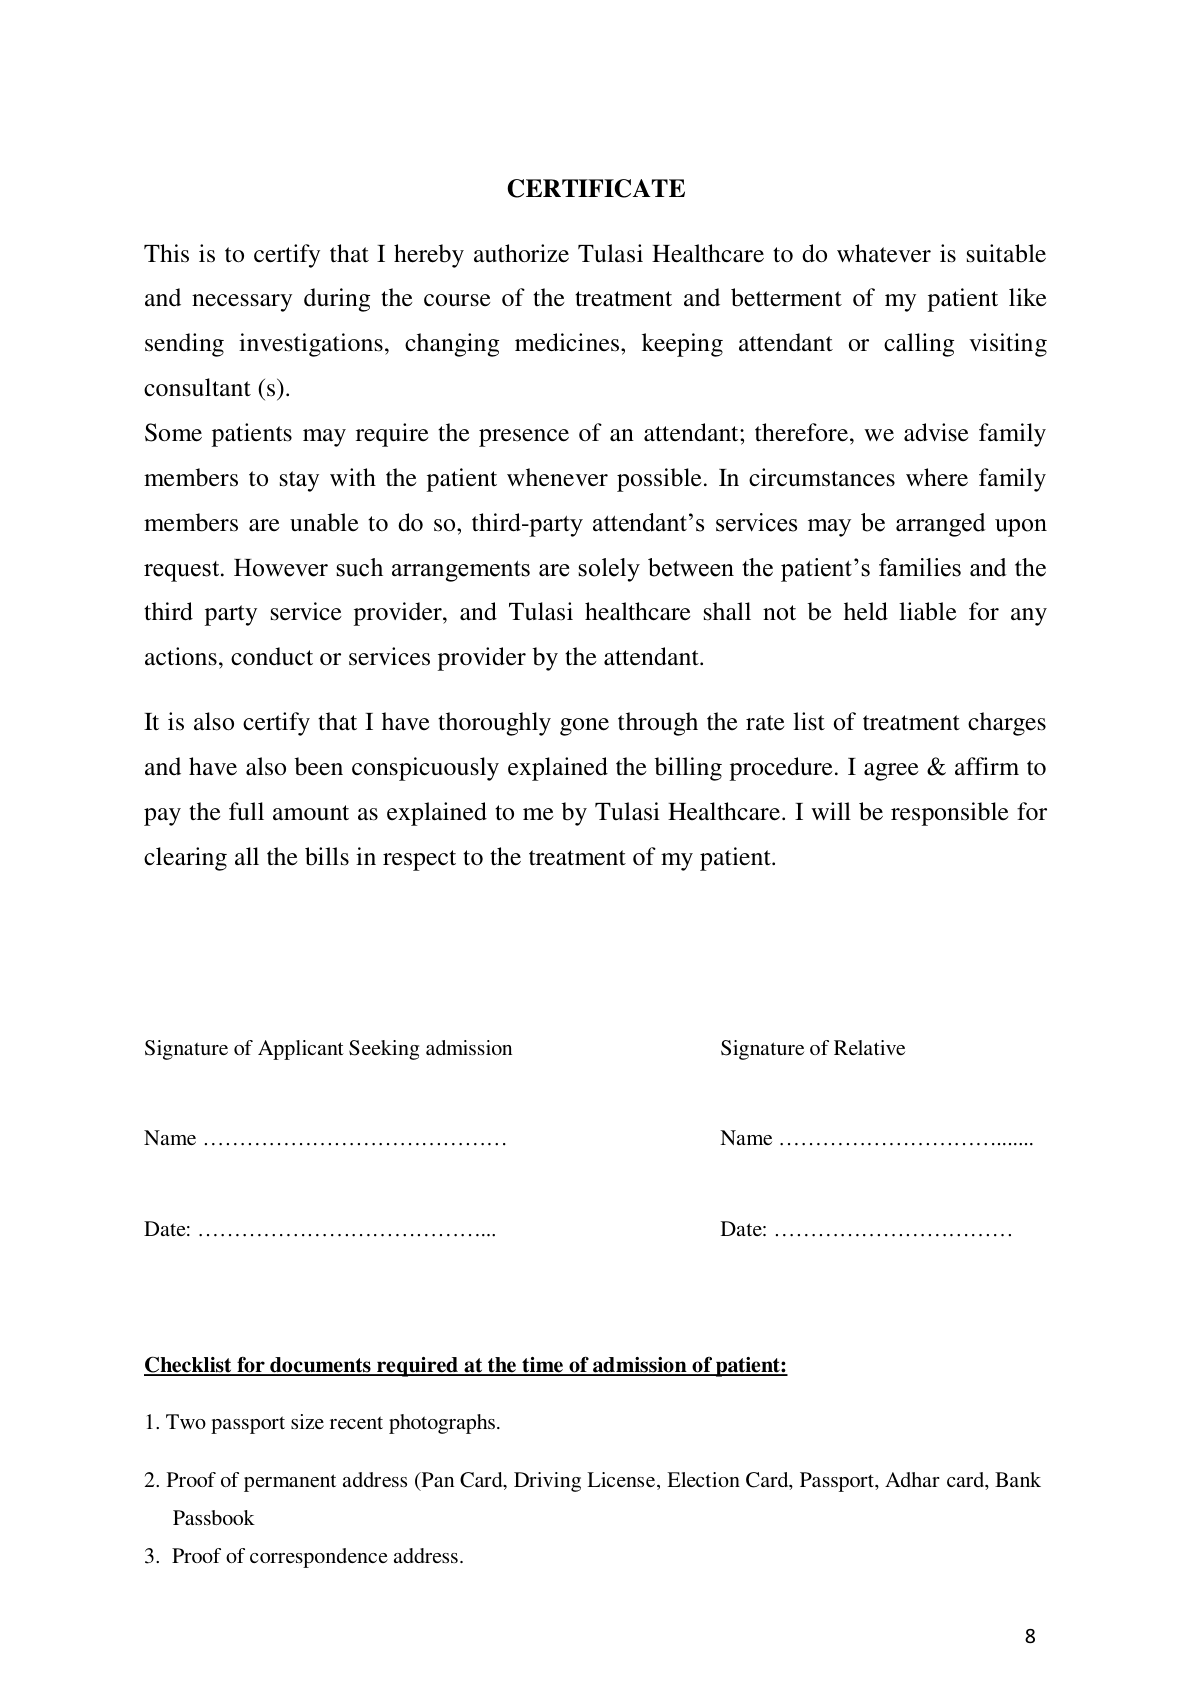
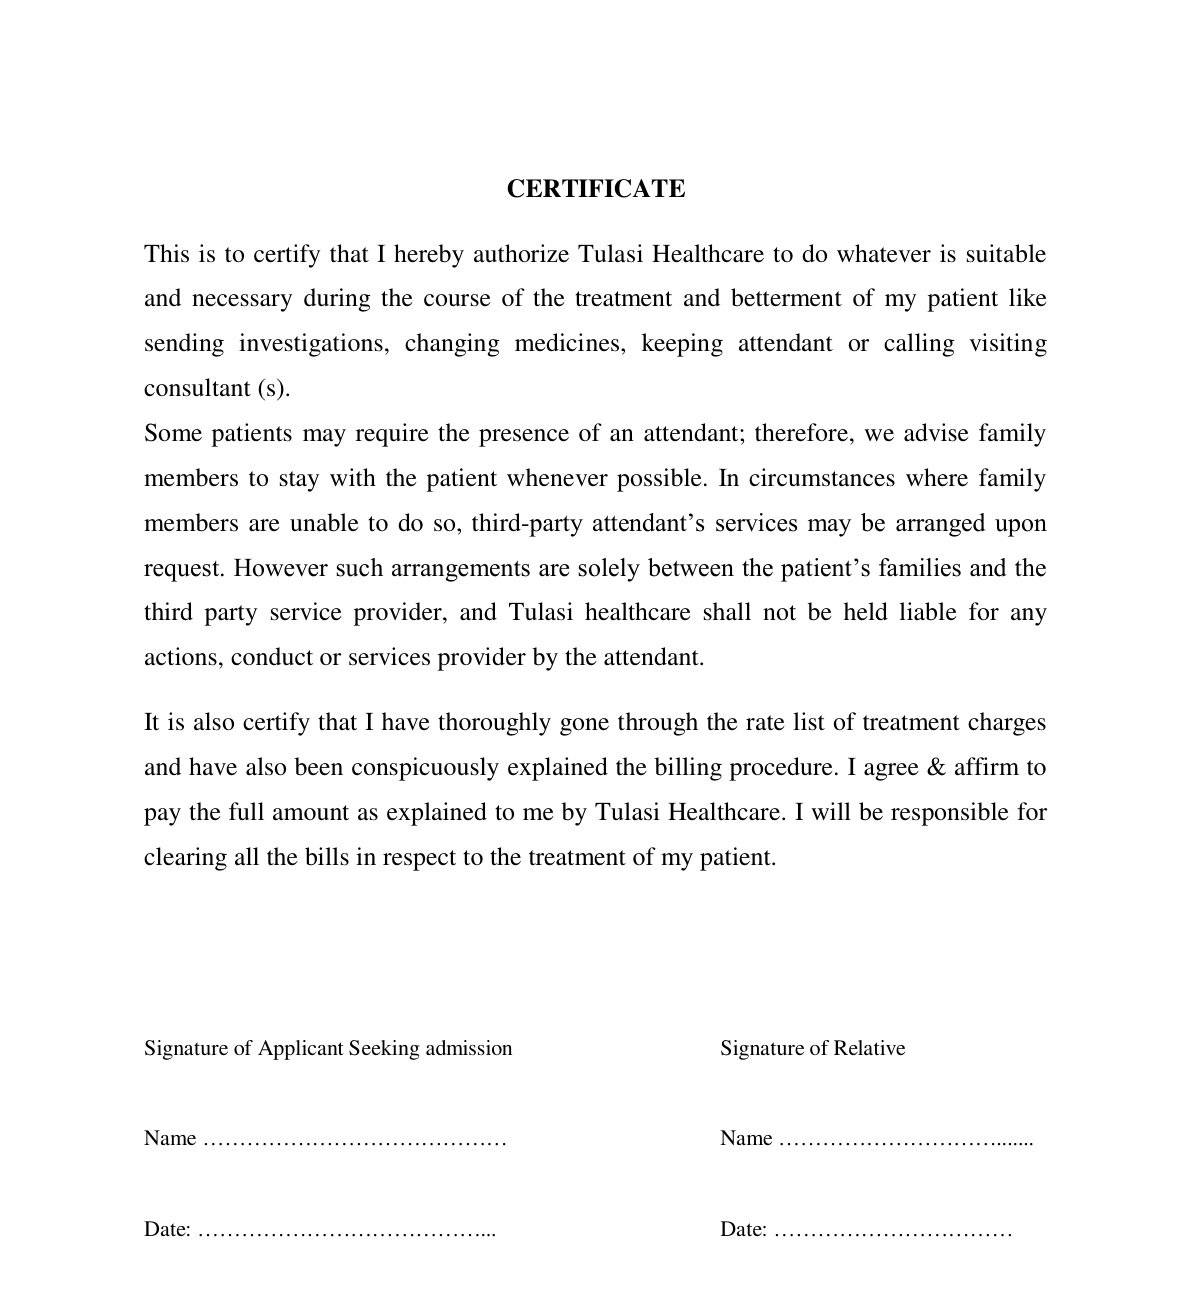
Admission terms: terms 9-25 folded, documents checklist ticked on screen (block 196)

diff --git a/public/legacy/js/196-forms-reformat-24nov-js.js b/public/legacy/js/196-forms-reformat-24nov-js.js
@@ -1,71 +1,89 @@
-/* 196 · 24 Nov meeting: consent forms reformatted one by one.
-   MECT form (mect-final): the information sheet (pages 1 to 4) is folded behind "Show information sheet";
-   the MECT checklist is no longer split over pages 4 and 5 of the scanned form (192 cuts it out of the images),
-   it is one on-screen table with Yes / No buttons and the MMSE score. Saved in the same form record
-   (`m196<part><row>` = 'y' or 'n', MMSE in `p5f1`); answers from the old on-image boxes are still read. */
+/* 196 · 24 Nov meeting: consent forms reformatted one by one (all roles that open these forms).
+   Each form: read-only pages folded behind a "Show" bar, checklists cut out of the scanned pages and shown as one
+   on-screen table, saved in the same form record (so the e-sign, print and saved data stay as they were).
+   - MECT (mect-final): information sheet pages 1 to 4 folded; MECT checklist (192 cuts it out of pages 4 and 5)
+     with Yes / No per row (`m196<part><row>` = 'y' / 'n', MMSE score in `p5f1`); old on-image boxes still read.
+   - Admission terms (adm-terms): terms 9 to 25 (pages 5 and 6, no blanks) folded; documents checklist cut out of
+     page 8, ticked on screen (`m196doc1..3` = '✓'). */
 (function(){
-  const MECT='mect-final';
-  const ROWS={
-    pre:['Capacity assessment form','Admission consent form signed by patient / NR for IPD patient',
+  const esc=s=>String(s==null?'':s).replace(/[&<>"]/g,c=>({'&':'&amp;','<':'&lt;','>':'&gt;','"':'&quot;'}[c]));
+  const cur=()=>String((typeof S!=='undefined'&&S.cdEntryKey)||'').split('|')[1]||'';
+  const vals=fid=>{try{return cur()===fid?cdfVals(S.cdEntryKey):{};}catch(e){return {};}};
+
+  /* ---- MECT checklist ---- */
+  const MR={pre:['Capacity assessment form','Admission consent form signed by patient / NR for IPD patient',
       'MECT education material with consent form signed by patient / NR and two psychiatrists',
       'Anaesthesia consent form signed by patient / NR and one family member (legal guardian)',
       'PAC and pre MECT work-up (routine and special tests, ECG, fundus examination) checked by RMO','MMSE score'],
     peri:['Session 1','Session 2','Session 3','Session 4','Session 5'],
     post:['Vitals','Response monitoring, clinically (behaviour and psychopathology) and objective rating scale','Cognitive deficits, clinical and MMSE']};
-  const HEAD={pre:'Pre-ECT assessment',peri:'Peri-MECT assessment',post:'Post-MECT assessment'};
-  const OLD={peri:'Peri-MECT',post:'Post-MECT'};
-  const esc=s=>String(s==null?'':s).replace(/[&<>"]/g,c=>({'&':'&amp;','<':'&lt;','>':'&gt;','"':'&quot;'}[c]));
-  const isMect=()=>String((typeof S!=='undefined'&&S.cdEntryKey)||'').split('|')[1]===MECT;
-  const vals=()=>{try{return isMect()?cdfVals(S.cdEntryKey):{};}catch(e){return {};}};
-  const get=(v,p,i)=>{const k='m196'+p+(i+1);if(v[k])return v[k];const o=OLD[p];if(o){if(v['m24'+o+i+'y'])return 'y';if(v['m24'+o+i+'n'])return 'n';}return '';};
-  function html(ed){
-    const v=vals();let done=0,all=0;
-    const body=Object.keys(ROWS).map(p=>`<tr class="m196-h"><th colspan="2">${HEAD[p]}${p==='peri'?'<small>Seizure threshold checked by the administering person; any events filled in a separate form</small>':''}</th><th>Yes</th><th>No</th></tr>`
-      +ROWS[p].map((t,i)=>{const a=get(v,p,i);all++;if(a)done++;
+  const MH={pre:'Pre-ECT assessment',peri:'Peri-MECT assessment',post:'Post-MECT assessment'},OLD={peri:'Peri-MECT',post:'Post-MECT'};
+  const mget=(v,p,i)=>{const k='m196'+p+(i+1);if(v[k])return v[k];const o=OLD[p];if(o){if(v['m24'+o+i+'y'])return 'y';if(v['m24'+o+i+'n'])return 'n';}return '';};
+  function mectHtml(ed){
+    const v=vals('mect-final');let done=0,all=0;
+    const body=Object.keys(MR).map(p=>`<tr class="m196-h"><th colspan="2">${MH[p]}${p==='peri'?'<small>Seizure threshold checked by the administering person; any events filled in a separate form</small>':''}</th><th>Yes</th><th>No</th></tr>`
+      +MR[p].map((t,i)=>{const a=mget(v,p,i);all++;if(a)done++;
         const b=(x,l)=>`<button type="button" class="m196-b${a===x?' on '+x:''}"${ed?` onclick="m196Set('${p}',${i},'${x}')"`:' disabled'} aria-pressed="${a===x}">${l}</button>`;
         const mm=p==='pre'&&i===5?` <input class="m196-mm" type="text" inputmode="numeric" placeholder="Score /30" value="${esc(v.p5f1||'')}"${ed?` oninput="cdfSet('p5f1',this.value,null)"`:' disabled'}>`:'';
         return `<tr><td class="n">${i+1}</td><td>${esc(t)}${mm}</td><td>${b('y','Yes')}</td><td>${b('n','No')}</td></tr>`;}).join('')).join('');
     return `<div class="m196-top"><b>MECT checklist</b><span>Filled by the doctor · ${done} of ${all} answered</span></div><table class="m196-t">${body}</table>`;
   }
-  window.m196Set=function(p,i,x){if(!isMect())return;const v=vals(),k='m196'+p+(i+1);cdfSet(k,get(v,p,i)===x?'':x,null);
-    document.querySelectorAll('.m196-ck').forEach(el=>{el.innerHTML=html(el.dataset.ed==='1');});};
+  window.m196Set=function(p,i,x){if(cur()!=='mect-final')return;const v=vals('mect-final');cdfSet('m196'+p+(i+1),mget(v,p,i)===x?'':x,null);redraw();};
+
+  /* ---- Admission terms: documents checklist ---- */
+  const DOCS=['Two passport size recent photographs','Proof of permanent address (PAN card, driving licence, election card, passport, Aadhaar card, bank passbook)','Proof of correspondence address'];
+  function docHtml(ed){
+    const v=vals('adm-terms');const n=DOCS.filter((t,i)=>v['m196doc'+(i+1)]).length;
+    return `<div class="m196-top"><b>Documents required at the time of admission</b><span>${n} of ${DOCS.length} received</span></div><table class="m196-t">`
+      +DOCS.map((t,i)=>{const on=!!v['m196doc'+(i+1)];return `<tr><td class="n">${i+1}</td><td>${esc(t)}</td><td style="width:110px;text-align:right"><button type="button" class="m196-b${on?' on y':''}"${ed?` onclick="m196Doc(${i})"`:' disabled'} aria-pressed="${on}">${on?'✓ Received':'Received'}</button></td></tr>`;}).join('')+'</table>';
+  }
+  window.m196Doc=function(i){if(cur()!=='adm-terms')return;const k='m196doc'+(i+1);cdfSet(k,vals('adm-terms')[k]?'':'✓',null);redraw();};
+
+  const FORMS={
+    'mect-final':{fold:[1,2,3,4],bar:'<b>Information sheet</b> · pages 1 to 4, read only, for the patient and family',what:'information sheet',ck:mectHtml,before:5},
+    'adm-terms':{fold:[5,6],bar:'<b>Terms 9 to 25</b> · pages 5 and 6, read only (fees, belongings, safety, tests, rules)',what:'terms 9 to 25',ck:docHtml,after:8}};
+
+  function redraw(){document.querySelectorAll('.m196-ck').forEach(el=>{const F=FORMS[el.dataset.fid];if(F)el.innerHTML=F.ck(el.dataset.ed==='1');});}
 
   const css=document.createElement('style');
   css.textContent='.m196-ck{background:#fff;border:1px solid #d0d5dd;border-radius:10px;padding:14px 16px;margin:0 auto 12px;box-sizing:border-box}'
     +'.m196-top{display:flex;justify-content:space-between;align-items:baseline;gap:12px;margin-bottom:8px}.m196-top b{font-size:15px}.m196-top span{font-size:12.5px;color:#667085}'
     +'.m196-t{width:100%;border-collapse:collapse;font-size:13.5px}.m196-t td,.m196-t th{border-bottom:1px solid #eaecf0;padding:7px 8px;text-align:left;vertical-align:middle}'
-    +'.m196-t td.n{width:22px;color:#667085}.m196-t td:nth-child(3),.m196-t td:nth-child(4),.m196-h th:nth-child(2),.m196-h th:nth-child(3){width:62px;text-align:center}'
+    +'.m196-t td.n{width:22px;color:#667085}.m196-h~tr td:nth-child(3),.m196-h~tr td:nth-child(4),.m196-h th:nth-child(2),.m196-h th:nth-child(3){width:62px;text-align:center}'
     +'.m196-h th{background:#f2f4f7;font-weight:700;color:#101828}.m196-h th small{display:block;font-weight:400;color:#475467;font-size:12px;margin-top:2px}'
     +'.m196-b{border:1px solid #d0d5dd;background:#fff;border-radius:6px;padding:4px 10px;font:inherit;font-size:12.5px;cursor:pointer;min-width:46px}'
     +'.m196-b.on.y{background:#dcfae6;border-color:#47cd89;color:#067647;font-weight:700}.m196-b.on.n{background:#fee4e2;border-color:#f97066;color:#b42318;font-weight:700}.m196-b:disabled{cursor:default}'
     +'.m196-mm{margin-left:10px;width:96px;padding:4px 8px;border:1px solid #d0d5dd;border-radius:6px;font:inherit;font-size:13px}'
     +'.m196-fb{display:flex;justify-content:space-between;align-items:center;gap:12px;background:#f8f9fc;border:1px solid #d0d5dd;border-radius:10px;padding:10px 14px;margin:0 auto 12px;box-sizing:border-box;font-size:13.5px}'
-    +'.m196-fb button{border:1px solid #d0d5dd;background:#fff;border-radius:6px;padding:5px 12px;font:inherit;cursor:pointer}'
+    +'.m196-fb button{border:1px solid #d0d5dd;background:#fff;border-radius:6px;padding:5px 12px;font:inherit;cursor:pointer;white-space:nowrap}'
     +'.m196-fold.m196-shut{display:none!important}'
     +'@media print{.m196-fold.m196-shut{display:block!important}.m24-mh.m196-fold.m196-shut{display:flex!important}.m196-fb{display:none}.m196-b:not(.on){opacity:.5}}';
   document.head.appendChild(css);
 
-  const pageOf=img=>+((img.getAttribute('src')||'').match(/p(\d+)\.png/)||[])[1];
+  /* page 8 of the admission terms ends before the checklist (image cut at the checklist heading) */
+  try{const T=CDF_FORMS['adm-terms'];if(T&&T.pages&&!T.m196){T.m196=1;T.pages.forEach(pg=>{if(/adm-terms\/p8\.png/.test(pg.img)){pg.img='forms/adm-terms/p8.png?v=196';pg.h=649.9;pg.fields=pg.fields.filter(f=>!/^p8f[56]$/.test(f.id));}});}}catch(e){}
+
+  const pno=img=>+((img.getAttribute('src')||'').match(/\/p(\d+)\.png/)||[])[1];
+  const head=pg=>{const h=pg.previousElementSibling;return h&&h.classList.contains('m24-mh')?h:pg;};
   function fix(){
-    const imgs=[...document.querySelectorAll('.cdf-page>img[src*="forms/mect-final/p"]')];if(!imgs.length)return;
-    const boxes=new Set(imgs.map(i=>i.parentElement.parentNode));
-    boxes.forEach(box=>{
-      const pages=[...box.children].filter(c=>c.classList.contains('cdf-page')&&c.querySelector('img[src*="forms/mect-final/p"]'));
-      const p1=pages.find(pg=>pageOf(pg.querySelector('img'))===1),p5=pages.find(pg=>pageOf(pg.querySelector('img'))===5);
-      const w=(p1||pages[0]).style.width||'';
-      const ed=!!box.querySelector('.cdf-f:not(.cdf-ro)')&&isMect();
-      /* fold pages 1 to 4 */
-      const open=box.dataset.m196open==='1';
-      pages.forEach(pg=>{const n=pageOf(pg.querySelector('img'));if(n>=1&&n<=4){const els=[pg];const h=pg.previousElementSibling;if(h&&h.classList.contains('m24-mh'))els.push(h);
-        els.forEach(e=>{e.classList.add('m196-fold');e.classList.toggle('m196-shut',!open);});}});
-      if(p1&&!box.querySelector(':scope>.m196-fb')){const fb=document.createElement('div');fb.className='m196-fb';fb.style.width=w;
-        const h=p1.previousElementSibling&&p1.previousElementSibling.classList.contains('m24-mh')?p1.previousElementSibling:p1;
-        fb.innerHTML='<span><b>Information sheet</b> · pages 1 to 4, read only, for the patient and family</span><button type="button">'+(open?'Hide':'Show')+' information sheet</button>';
-        fb.querySelector('button').onclick=()=>{box.dataset.m196open=box.dataset.m196open==='1'?'0':'1';fix();fb.querySelector('button').textContent=(box.dataset.m196open==='1'?'Hide':'Show')+' information sheet';};
-        box.insertBefore(fb,h);}
-      /* the checklist, before the anaesthesia consent */
-      if(p5&&!box.querySelector(':scope>.m196-ck')){const ck=document.createElement('div');ck.className='m196-ck';ck.style.width=w;ck.dataset.ed=ed?'1':'0';ck.innerHTML=html(ed);
-        const h=p5.previousElementSibling&&p5.previousElementSibling.classList.contains('m24-mh')?p5.previousElementSibling:p5;box.insertBefore(ck,h);}
+    Object.keys(FORMS).forEach(fid=>{const F=FORMS[fid];
+      const imgs=[...document.querySelectorAll('.cdf-page>img[src*="forms/'+fid+'/p"]')];if(!imgs.length)return;
+      new Set(imgs.map(i=>i.parentElement.parentNode)).forEach(box=>{
+        const pages=[...box.children].filter(c=>c.classList.contains('cdf-page')&&c.querySelector('img[src*="forms/'+fid+'/p"]'));
+        const at=n=>pages.find(pg=>pno(pg.querySelector('img'))===n);
+        const w=pages[0].style.width||'',ed=cur()===fid&&!!box.querySelector('.cdf-f:not(.cdf-ro)');
+        const open=box.dataset.m196open==='1';
+        F.fold.forEach(n=>{const pg=at(n);if(!pg)return;[pg,head(pg)].forEach(e=>{e.classList.add('m196-fold');e.classList.toggle('m196-shut',!open);});});
+        const f1=at(F.fold[0]);
+        if(f1&&!box.querySelector(':scope>.m196-fb')){const fb=document.createElement('div');fb.className='m196-fb';fb.style.width=w;
+          const lab=()=>(box.dataset.m196open==='1'?'Hide ':'Show ')+F.what;
+          fb.innerHTML='<span>'+F.bar+'</span><button type="button"></button>';const b=fb.querySelector('button');b.textContent=lab();
+          b.onclick=()=>{box.dataset.m196open=box.dataset.m196open==='1'?'0':'1';b.textContent=lab();fix();};
+          box.insertBefore(fb,head(f1));}
+        if(!box.querySelector(':scope>.m196-ck')){const ref=F.before?at(F.before):at(F.after);if(!ref)return;
+          const ck=document.createElement('div');ck.className='m196-ck';ck.style.width=w;ck.dataset.fid=fid;ck.dataset.ed=ed?'1':'0';ck.innerHTML=F.ck(ed);
+          if(F.before)box.insertBefore(ck,head(ref));else box.insertBefore(ck,ref.nextSibling);}
+      });
     });
   }
   let q=0;const later=()=>{if(!q)q=requestAnimationFrame(()=>{q=0;try{fix();}catch(e){}});};
